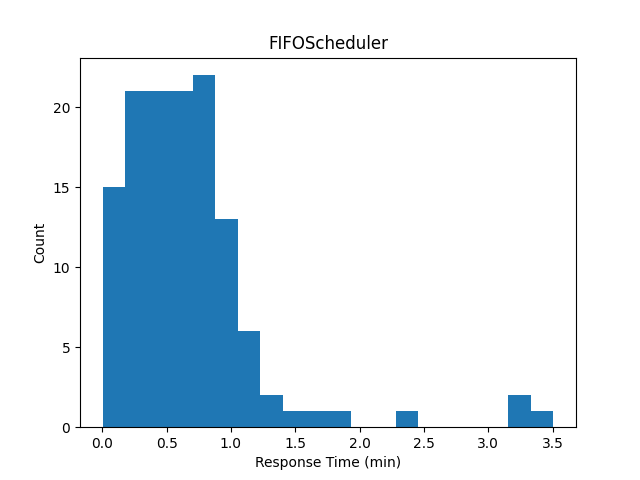
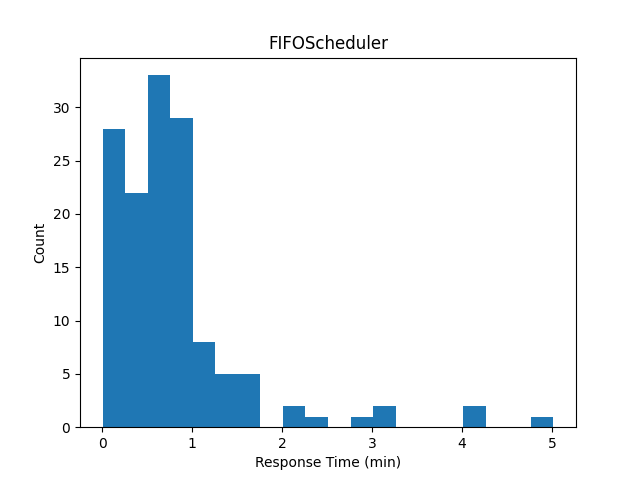
README

diff --git a/README.md b/README.md
@@ -1,0 +1,77 @@
+# AI CNA Scheduler
+
+A proof-of-concept discrete-event simulation for AI-driven Certified Nursing Assistant (CNA) call scheduling. This repository implements two dispatch policies (FIFO and urgency-based DynamicScheduler), a tiny PyTorch urgency model, and analysis scripts to compare performance and fairness under varying load and staffing levels.
+
+---
+
+## 🚀 Features
+
+- **SimPy simulation** of patient call arrivals (Poisson process) and CNA dispatch  
+- **FIFOScheduler**: classic First-In, First-Out dispatch  
+- **DynamicScheduler**: prioritizes calls by an urgency score from a PyTorch neural net  
+- **UrgencyModel**: small feed-forward network mapping call type → urgency  
+- **Multi-run & sensitivity sweeps** over random seeds, staffing levels, and patient load  
+- **Evaluation & plotting** of response-time histograms, workload bar charts, and CSV-exported sensitivity results  
+
+---
+
+## 📁 Repository Structure
+
+AI_CNA_Scheduler/ 
+├── data/ 
+│ ├── patients.csv # synthetic patient profiles & λ_request 
+│ └── cnas.csv # CNA profiles, specialties, shifts 
+├── src/ 
+│ ├── scheduler.py # FIFOScheduler & DynamicScheduler implementations 
+│ ├── simulation.py # main experiment & sensitivity-sweep driver 
+│ ├── train_model.py # trains urgency PyTorch model → urgency_model.pt 
+│ ├── models.py # UrgencyModel definition & training helper 
+│ ├── evaluate.py # plotting helpers & multi-run statistics 
+│ └── init.py 
+├── sensitivity_results.csv # example output from sensitivity sweep 
+├── requirements.txt # Python dependencies 
+└── README.md # this file
+
+
+---
+
+## 💻 Installation
+
+1. **Clone** this repository  
+   ```bash
+   git clone https://github.com/your-org/AI_CNA_Scheduler.git
+   cd AI_CNA_Scheduler
+
+## Create virtual env
+python3 -m venv .venv
+source .venv/bin/activate
+
+## install dependencies
+pip install --upgrade pip
+pip install -r requirements.txt
+
+
+## Usage
+
+1. Train the urgency model
+python src/train_model.py --out_path urgency_model.pt
+Fits a small neural net on synthetic severity labels and saves urgency_model.pt.
+
+2. Run the simulation & analysis
+python src/simulation.py
+Generates response-time histograms & workload charts (PNG)
+Runs 50-seed multi-run comparison (prints mean ± σ response times)
+Executes sensitivity sweeps over staffing (1–3 CNAs) and load multipliers (0.5×, 1×, 1.5×)
+Saves full results to sensitivity_results.csv
+3. View outputs
+Histograms: FIFO*_response_times.png, Dynamic*_response_times.png
+Workloads: *_workload.png
+Sensitivity CSV: sensitivity_results.csv
+🔧 Configuration
+
+Simulation time: Default 8 hours (480 min) in run_simulation(sim_time=8*60)
+Service time: Fixed 5 min per call (see scheduler.py)
+Urgency heuristic: One-hot call type → severity label → neural net prediction
+Adjust these parameters in src/simulation.py and src/scheduler.py as needed.
+
+
